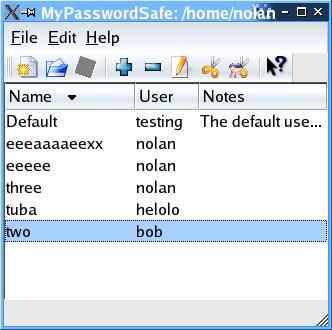
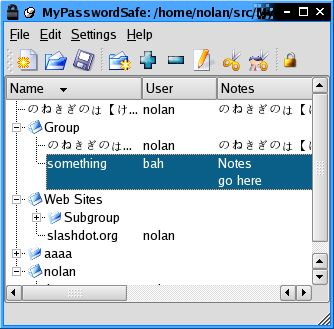
[project @ 2004-10-23 00:14:06 by nolan] Groupnames are converted from UTF8
git-svn-id: file:///home/svn/MyPasswordSafe/trunk@110 9e3857e0-fc33-0410-b652-94ab0348a082

diff --git a/src/serializers.cpp b/src/serializers.cpp
@@ -1,4 +1,4 @@
-/* $Header: /home/cvsroot/MyPasswordSafe/src/serializers.cpp,v 1.18 2004/10/01 10:38:20 nolan Exp $
+/* $Header: /home/cvsroot/MyPasswordSafe/src/serializers.cpp,v 1.19 2004/10/23 00:14:08 nolan Exp $
  * Copyright (c) 2004, Semantic Gap Solutions
  * All rights reserved.
  *   
@@ -749,8 +749,8 @@ int BlowfishLizer2::readEntry(FILE *in, SafeEntry &item, QString &group,
       item.setUUID(uuid);
     } break;
     case GROUP: {
-      QString g(data.get());
-      group = parseGroup(g);
+      //QString g(data.get());
+      group = parseGroup(QString::fromUtf8(data.get()));
       break;
     }
     case CTIME:
